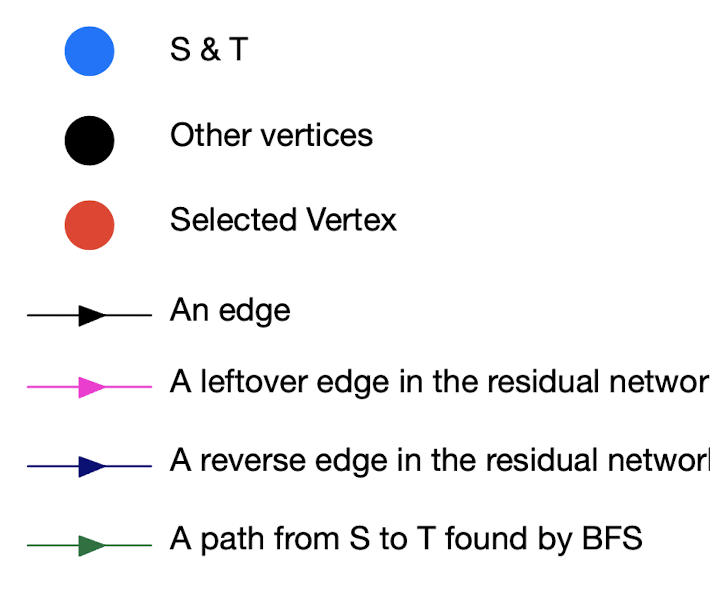
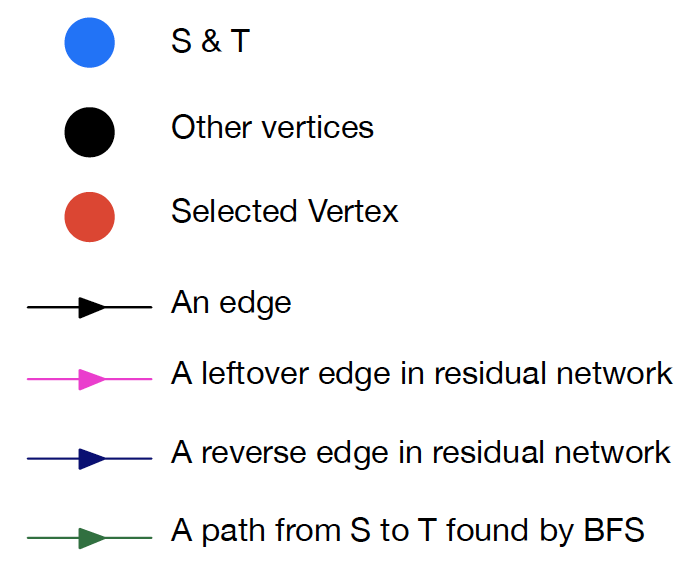
Resize img to 75%. Fix grammar.

diff --git a/index.html b/index.html
@@ -36,7 +36,7 @@
             The weight of each edge in the graph denotes the maximum resources that can be transferred on that edge.
             The problem is to find out the maximum resources that can be transferred from S to T per time interval.
         <p>&emsp; The colors of the edges used in the demo are the same as those in the lecture slides.
-            (To avoid display issues, avoid align vertices vertically.) A color table is attached below.
+            (To avoid display issues, avoid aligning vertices vertically.) A color table is attached below.
         <p>
         <img src="pic.png" alt="Explanation">
 

diff --git a/script.js b/script.js
@@ -317,7 +317,7 @@ function Handle(ins,b1,inp,canvas){
         b1.text("Next");
         HandleCanvas(ins,b1,inp,canvas,null);
     }else if(step===14){
-        ins.text("Then we will apply BFS to search a path from S to T. After finding a path, we update the flows add the minimum weight in the path to our maximum capacity.");
+        ins.text("Then we will apply BFS to search a path from S to T. After finding a path, we update the flows and add the minimum weight in the path to our maximum capacity.");
         HandleCanvas(ins,b1,inp,canvas,null);
     }else if(step===16){
         b1.hide();

diff --git a/main.css b/main.css
@@ -7,7 +7,10 @@ header{
     padding: 10px;
     font-size: 35px;
 }
-
+img{
+    width:75%;
+    object-fit: cover;
+}
 canvas {
     display: block;
     outline: black 3px solid;
